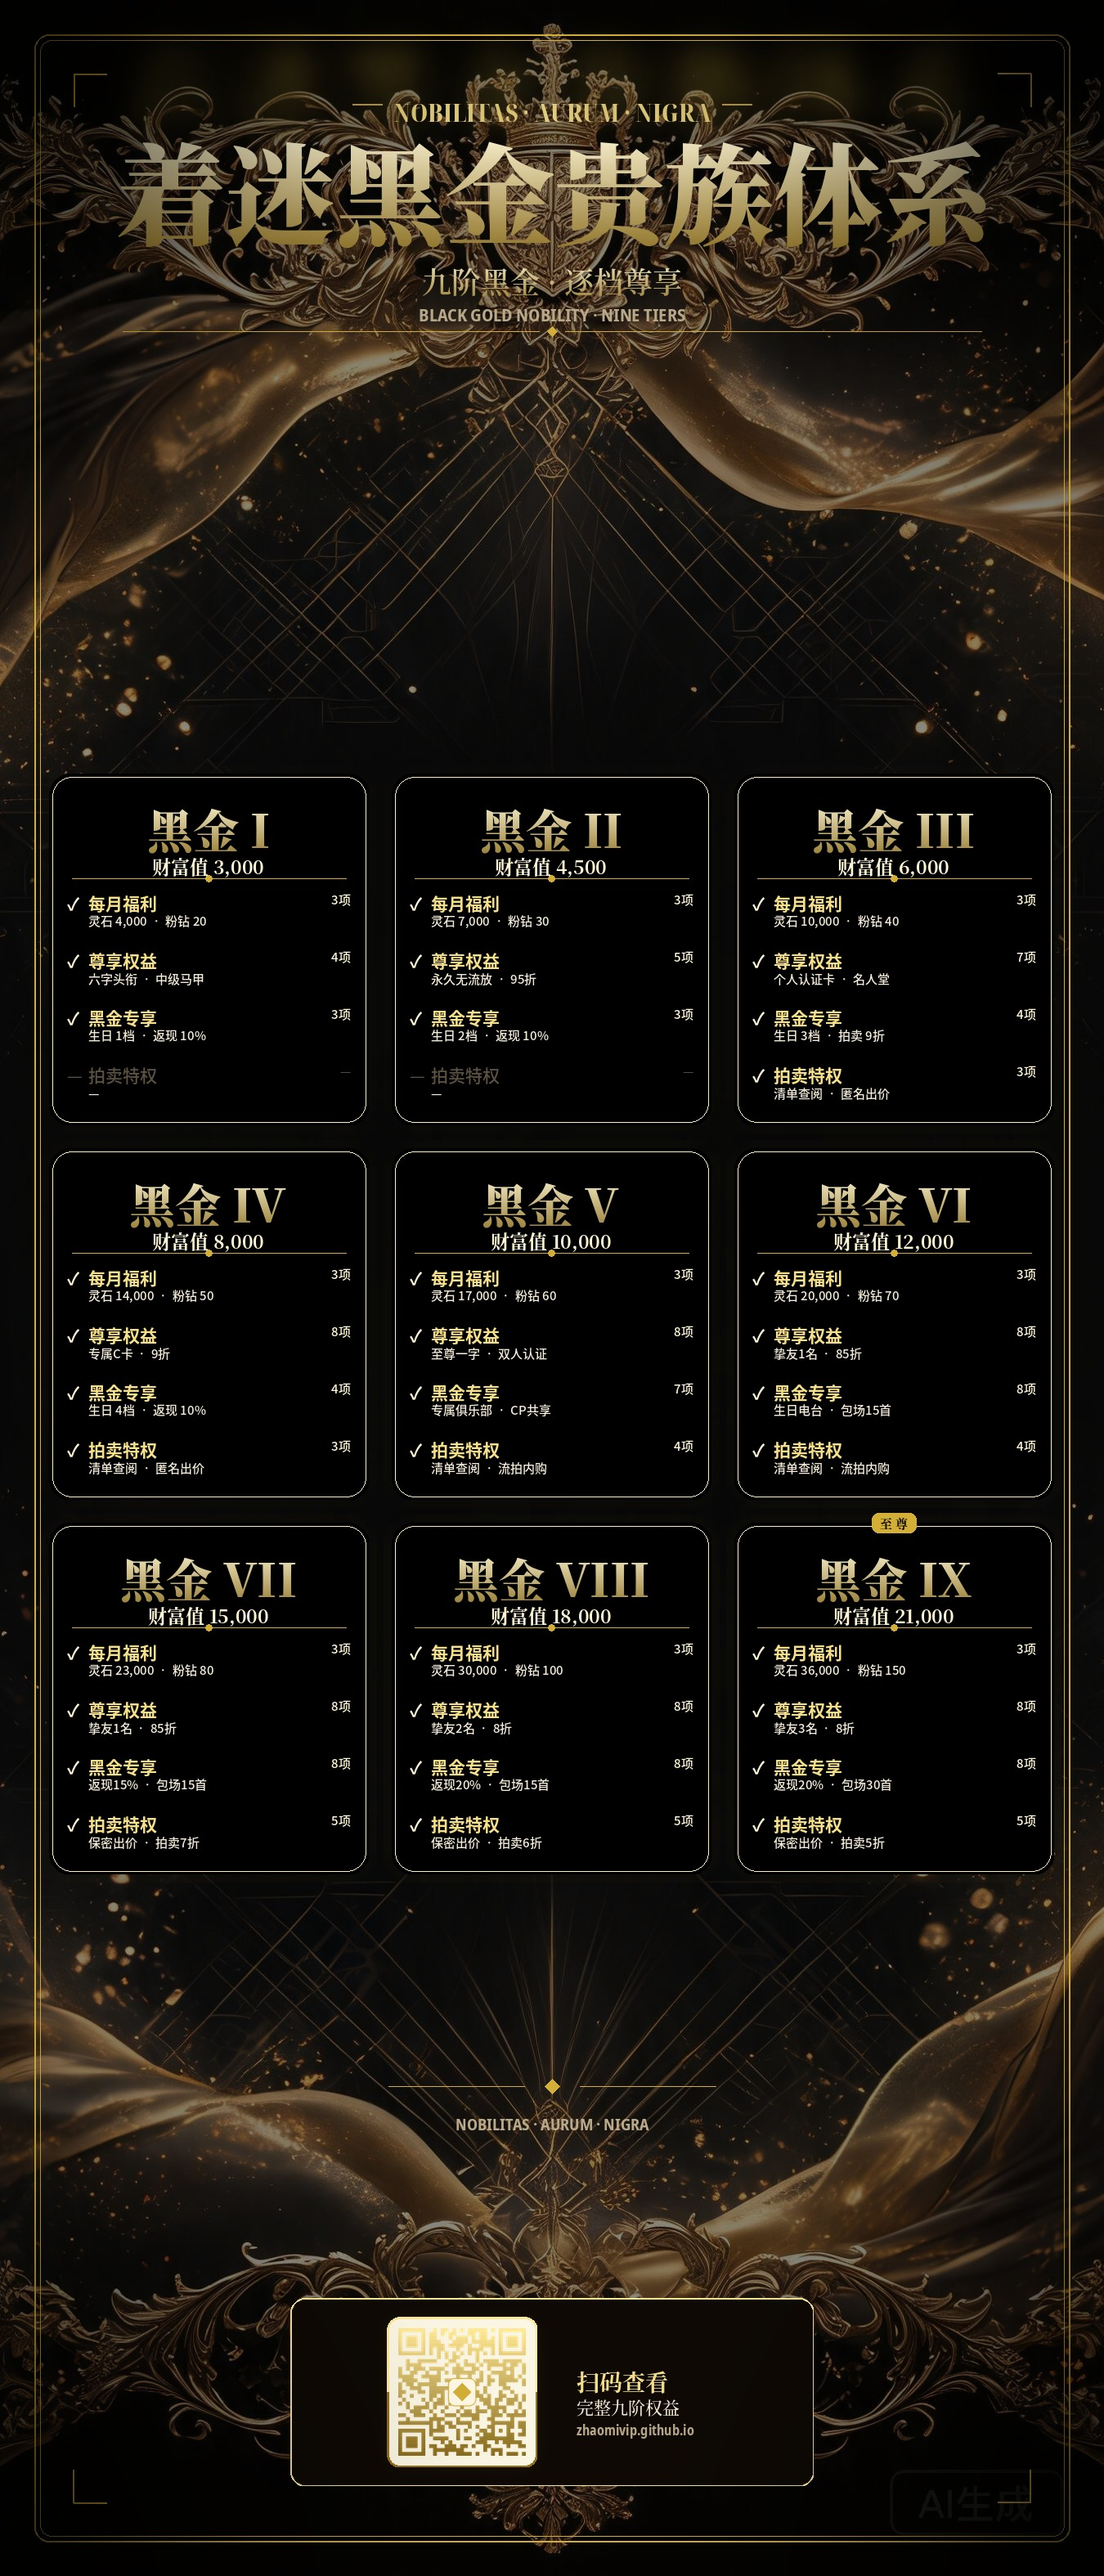
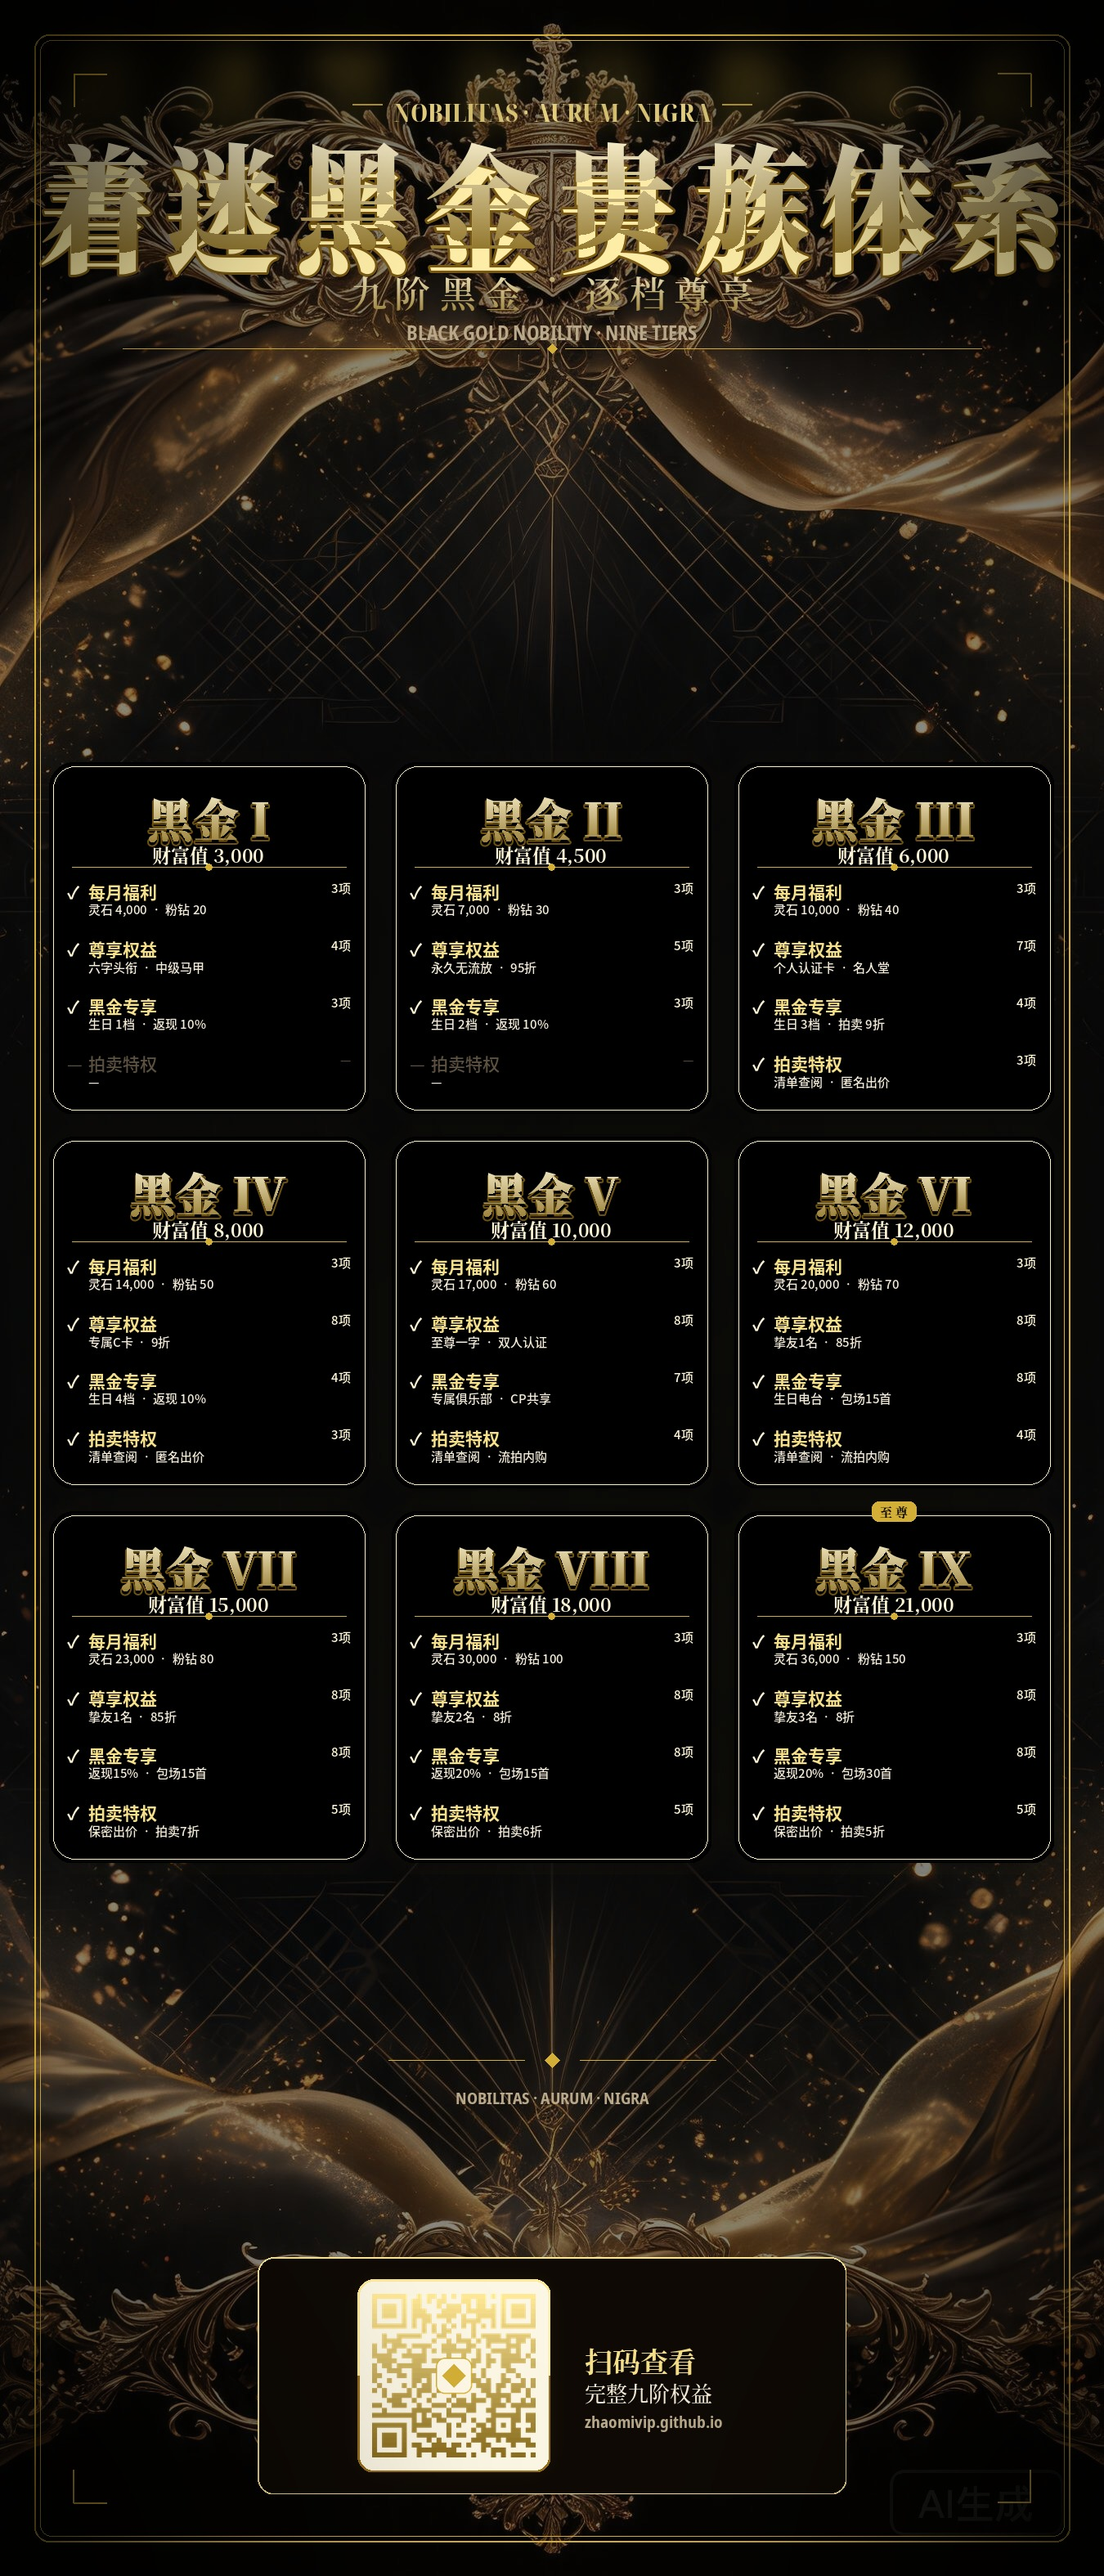
海报:二维码放大(200px/面板290);卡片水晶凸起(穹顶高光+3D斜面+底部内阴影);字体艺术化(字距+金色描边+投影)

diff --git a/make_poster.py b/make_poster.py
@@ -108,24 +108,51 @@ draw.line([(CX-ew//2-50,ey_y+eh//2),(CX-ew//2-14,ey_y+eh//2)],fill=(212,175,55,2
 draw.line([(CX+ew//2+14,ey_y+eh//2),(CX+ew//2+50,ey_y+eh//2)],fill=(212,175,55,200),width=2)
 
 title='着迷黑金贵族体系'
-tf=CJK(134,'Black')
-ty=ey_y+eh+20
-# 标题金色光晕（先画模糊金色大字作为底衬）
-glow=Image.new('RGBA',(W,400),(0,0,0,0))
+tf=CJK(140,'Black')
+ty=ey_y+eh+22
+# 标题字距（艺术化拉开）
+SPACING=14
+# 计算带字距的总宽
+title_w=sum(tsize(ch,tf)[0] for ch in title)+SPACING*(len(title)-1)
+tx0=CX-title_w//2
+# 标题金色光晕
+glow=Image.new('RGBA',(W,420),(0,0,0,0))
 gd=ImageDraw.Draw(glow)
-tw,th=tsize(title,tf)
-gd.text((CX-tw//2,200-ty),title,font=tf,fill=(212,175,55,120),anchor='la')
-glow=glow.filter(ImageFilter.GaussianBlur(22))
-canvas.alpha_composite(glow,(0,ty-200))
-gold_text(CX,ty,title,tf,'ma')
+gx=tx0
+for ch in title:
+    cw,_=tsize(ch,tf)
+    gd.text((gx,210-ty),ch,font=tf,fill=(212,175,55,130),anchor='la')
+    gx+=cw+SPACING
+glow=glow.filter(ImageFilter.GaussianBlur(24))
+canvas.alpha_composite(glow,(0,ty-210))
+# 逐字绘制：深色投影 + 金色描边 + 金色渐变填充
+gx=tx0
+for ch in title:
+    cw,chh=tsize(ch,tf)
+    ccx=gx+cw//2
+    # 投影
+    draw.text((ccx+3,ty+3),ch,font=tf,fill=(0,0,0,160),anchor='ma')
+    # 金色描边
+    draw.text((ccx,ty),ch,font=tf,fill=(255,238,168,0),anchor='ma',stroke_width=3,stroke_fill=(120,88,20,230))
+    # 金色渐变填充
+    gold_text(ccx,ty,ch,tf,'ma')
+    gx+=cw+SPACING
 
 sub='九阶黑金 · 逐档尊享'
-sf=CJK(36,'SemiBold'); sw,sh=tsize(sub,sf)
-gold_text(CX,ty+tsize(title,tf)[1]+14,sub,sf,'ma')
+sf=CJK(44,'SemiBold')
+sub_sp=10
+sub_w=sum(tsize(ch,sf)[0] for ch in sub)+sub_sp*(len(sub)-1)
+sx0=CX-sub_w//2
+sub_y=ty+tsize(title,tf)[1]+18
+sx=sx0
+for ch in sub:
+    cw,_=tsize(ch,sf)
+    gold_text(sx+cw//2,sub_y,ch,sf,'ma')
+    sx+=cw+sub_sp
 
 lead='BLACK GOLD NOBILITY · NINE TIERS'
-lf=LATIN(22,'sans')
-ly=ty+tsize(title,tf)[1]+14+sh+18
+lf=LATIN(24,'sans')
+ly=sub_y+tsize(sub,sf)[1]+20
 txt(CX,ly,lead,lf,MUTED,'ma')
 
 dy=ly+36
@@ -192,8 +219,8 @@ CARD_W=(W-2*MARGIN_X-(COLS-1)*GAP)//COLS
 CARD_H=430
 GRID_H=ROWS*CARD_H+(ROWS-1)*GAP
 HEADER_BOTTOM=dy+24
-QR_PANEL_H=230
-QR_BOTTOM_MARGIN=110
+QR_PANEL_H=290
+QR_BOTTOM_MARGIN=100
 QR_TOP=H-QR_PANEL_H-QR_BOTTOM_MARGIN
 GRID_TOP=HEADER_BOTTOM+((QR_TOP-HEADER_BOTTOM)-GRID_H)//2
 GRID_BOTTOM=GRID_TOP+GRID_H
@@ -205,41 +232,43 @@ def card_pos(i):
     return x,y
 
 def glass_card(x,y,w,h,i):
-    """大气圆滑玻璃卡片：深色渐变 + 顶部高光 + 金色渐变描边 + 内发光 + 外发光"""
-    R=26  # 大圆角
+    """水晶凸起玻璃卡片：通透渐变 + 弧形穹顶高光 + 立体斜面描边 + 内外发光"""
+    R=30  # 更大圆角，水晶圆润
     # 外层金色光晕（高等级更强，柔化）
-    glow_alpha=int(28+i*12)
+    glow_alpha=int(32+i*13)
     if glow_alpha>0:
-        glow=Image.new('RGBA',(w+20,h+20),(0,0,0,0))
+        glow=Image.new('RGBA',(w+28,h+28),(0,0,0,0))
         gd=ImageDraw.Draw(glow)
-        gd.rounded_rectangle((6,6,w+14,h+14),radius=R+4,outline=(212,175,55,glow_alpha),width=4)
-        glow=glow.filter(ImageFilter.GaussianBlur(8))
-        canvas.alpha_composite(glow,(x-10,y-10))
-    # 基础层：深色纵向渐变（上深下略亮，沉稳大气）
+        gd.rounded_rectangle((8,8,w+20,h+20),radius=R+6,outline=(212,175,55,glow_alpha),width=5)
+        glow=glow.filter(ImageFilter.GaussianBlur(12))
+        canvas.alpha_composite(glow,(x-14,y-14))
+    # 基础层：通透深色纵向渐变（水晶玻璃感，降低不透明度）
     base=Image.new('RGBA',(w,h),(0,0,0,0))
     bd=ImageDraw.Draw(base)
     for yy in range(h):
         tt=yy/max(h-1,1)
-        a=int(215-tt*30)
-        r=int(16+tt*14); g=int(11+tt*9); b=int(5+tt*7)
+        a=int(190-tt*25)
+        r=int(18+tt*16); g=int(12+tt*11); b=int(6+tt*9)
         bd.line([(0,yy),(w,yy)],fill=(r,g,b,a))
-    # 顶部玻璃高光（柔和大弧度反光）
+    # 弧形穹顶高光（水晶凸起的顶部反光，宽而柔和）
     hl=Image.new('RGBA',(w,h),(0,0,0,0))
     hd=ImageDraw.Draw(hl)
-    for yy in range(int(h*0.42)):
-        tt=yy/(h*0.42)
-        a=int(55*(1-tt)**1.5)
-        hd.line([(0,yy),(w,yy)],fill=(255,244,200,a))
-    # 斜向细光带（玻璃质感）
-    for k in range(0,w+h,3):
-        hd.line([(k,0),(k+h//4,h//4)],fill=(255,248,210,5),width=1)
+    for yy in range(int(h*0.5)):
+        # 弧形：中间高两边低，模拟穹顶反光
+        edge=yy/(h*0.5)
+        curve=1-(edge-0.5)**2*2.2
+        a=int(70*max(curve,0)*(1-edge)**1.2)
+        hd.line([(0,yy),(w,yy)],fill=(255,246,205,a))
+    # 斜向细光带（玻璃折射）
+    for k in range(-h,w+h,4):
+        hd.line([(k,0),(k+h//3,h//3)],fill=(255,250,215,6),width=1)
     base=Image.alpha_composite(base,hl)
-    # 底部微弱内反光
+    # 底部微弱金色内反光
     refl=Image.new('RGBA',(w,h),(0,0,0,0))
     rd=ImageDraw.Draw(refl)
-    for yy in range(int(h*0.3)):
-        tt=yy/(h*0.3)
-        a=int(30*tt)
+    for yy in range(int(h*0.32)):
+        tt=yy/(h*0.32)
+        a=int(38*tt)
         rd.line([(0,h-yy),(w,h-yy)],fill=(212,175,55,a))
     base=Image.alpha_composite(base,refl)
     # 圆角遮罩
@@ -247,22 +276,36 @@ def glass_card(x,y,w,h,i):
     ImageDraw.Draw(mask).rounded_rectangle((0,0,w,h),radius=R,fill=255)
     base.putalpha(mask)
     canvas.alpha_composite(base,(x,y))
-    # 金色渐变描边（上亮下暗，立体感）
+    # 立体斜面描边（水晶凸起：上亮下暗，3D 边缘）
     border=Image.new('RGBA',(w,h),(0,0,0,0))
     bdr=ImageDraw.Draw(border)
     for yy in range(h):
         tt=yy/max(h-1,1)
-        a=int(220-tt*90)
-        bdr.line([(0,yy),(w,yy)],fill=(255,232,150,a) if tt<0.5 else (120,88,20,a))
-    # 用圆角环描边
+        a=int(235-tt*100)
+        bdr.line([(0,yy),(w,yy)],fill=(255,238,168,a) if tt<0.5 else (110,82,18,a))
     ring=Image.new('L',(w,h),0)
-    ImageDraw.Draw(ring).rounded_rectangle((0,0,w,h),radius=R,fill=0,outline=255,width=2)
+    ImageDraw.Draw(ring).rounded_rectangle((0,0,w,h),radius=R,fill=0,outline=255,width=3)
     border.putalpha(ring)
     canvas.alpha_composite(border,(x,y))
+    # 顶部细亮线（凸起高光棱）
+    topedge=Image.new('RGBA',(w,h),(0,0,0,0))
+    te=ImageDraw.Draw(topedge)
+    te.rounded_rectangle((2,2,w-2,h-2),radius=R-1,outline=(255,248,214,90),width=1)
+    topedge.putalpha(mask)
+    canvas.alpha_composite(topedge,(x,y))
+    # 底部内阴影（水晶下沉感）
+    botsh=Image.new('RGBA',(w,h),(0,0,0,0))
+    bs=ImageDraw.Draw(botsh)
+    for yy in range(int(h*0.25)):
+        tt=yy/(h*0.25)
+        a=int(45*(1-tt))
+        bs.line([(0,h-1-yy),(w,h-1-yy)],fill=(0,0,0,a))
+    botsh.putalpha(mask)
+    canvas.alpha_composite(botsh,(x,y))
     # 内发光（顶部一圈暖光）
     inner=Image.new('RGBA',(w,h),(0,0,0,0))
     idr=ImageDraw.Draw(inner)
-    idr.rounded_rectangle((4,4,w-4,h-4),radius=R-2,outline=(255,240,180,30),width=1)
+    idr.rounded_rectangle((5,5,w-5,h-5),radius=R-3,outline=(255,242,185,35),width=1)
     inner.putalpha(mask)
     canvas.alpha_composite(inner,(x,y))
 
@@ -277,9 +320,12 @@ for i,t in enumerate(TIERS):
         rrect((cx-bw//2-10,y-12,cx+bw//2+10,y+12),8,fill=(212,175,55,255))
         txt(cx,y,badge,bf,(10,7,3),'mm')
 
-    # 头部：黑金 Ⅰ（大字体饱满）
-    gold_text(cx,y+28,f'黑金 {t["id"]}',CJK(56,'Black'),'ma')
-    _,gnh=tsize(f'黑金 {t["id"]}',CJK(56,'Black'))
+    # 头部：黑金 Ⅰ（大字体饱满 + 金色描边）
+    tier_title=f'黑金 {t["id"]}'
+    ttf=CJK(56,'Black')
+    draw.text((cx,y+30),tier_title,font=ttf,fill=(0,0,0,0),anchor='ma',stroke_width=2,stroke_fill=(110,82,18,220))
+    gold_text(cx,y+28,tier_title,ttf,'ma')
+    _,gnh=tsize(tier_title,ttf)
     # 财富值（金色大字）
     txt(cx,y+28+gnh+8,f'财富值 {t["wealth"]:,}',CJK(23,'Bold'),GOLD_HI,'ma',shadow=True)
     # 分隔线
@@ -321,7 +367,7 @@ motto='NOBILITAS · AURUM · NIGRA'
 txt(CX,mid_y+32,motto,LATIN(20,'sans'),MUTED,'ma')
 
 # 二维码面板（深色玻璃 + 金色渐变描边）
-panel_x1,panel_x2=W//2-320,W//2+320
+panel_x1,panel_x2=W//2-360,W//2+360
 panel=Image.new('RGBA',(panel_x2-panel_x1,qr_panel_h),(0,0,0,0))
 pd=ImageDraw.Draw(panel)
 for yy in range(qr_panel_h):
@@ -329,7 +375,7 @@ for yy in range(qr_panel_h):
     a=int(185-tt*25)
     pd.line([(0,yy),(panel_x2-panel_x1,yy)],fill=(14,9,4,a))
 pmask=Image.new('L',(panel_x2-panel_x1,qr_panel_h),0)
-ImageDraw.Draw(pmask).rounded_rectangle((0,0,panel_x2-panel_x1,qr_panel_h),radius=18,fill=255)
+ImageDraw.Draw(pmask).rounded_rectangle((0,0,panel_x2-panel_x1,qr_panel_h),radius=20,fill=255)
 panel.putalpha(pmask)
 canvas.alpha_composite(panel,(panel_x1,qr_top))
 # 面板金色描边
@@ -339,30 +385,29 @@ for yy in range(qr_panel_h):
     tt=yy/max(qr_panel_h-1,1)
     pbd.line([(0,yy),(panel_x2-panel_x1,yy)],fill=(255,232,150,int(200-tt*80)))
 pring=Image.new('L',(panel_x2-panel_x1,qr_panel_h),0)
-ImageDraw.Draw(pring).rounded_rectangle((0,0,panel_x2-panel_x1,qr_panel_h),radius=18,outline=255,width=2)
+ImageDraw.Draw(pring).rounded_rectangle((0,0,panel_x2-panel_x1,qr_panel_h),radius=20,outline=255,width=2)
 pbdr.putalpha(pring)
 canvas.alpha_composite(pbdr,(panel_x1,qr_top))
 
-# 美化二维码：白色圆角底 + 金色渐变描边 + 外发光
-qr_size=156
+# 美化二维码：白色圆角底 + 金色渐变描边 + 外发光（放大）
+qr_size=200
 qr_img=Image.open(QR).convert('RGBA').resize((qr_size,qr_size),Image.LANCZOS)
-pad=14
+pad=18
 qb_w=qr_size+2*pad
-qcx=W//2-110; qcy=qr_top+(qr_panel_h-qb_w)//2
+qcx=W//2-120; qcy=qr_top+(qr_panel_h-qb_w)//2
 # 二维码外发光
-qrglow=Image.new('RGBA',(qb_w+30,qb_w+30),(0,0,0,0))
-ImageDraw.Draw(qrglow).rounded_rectangle((15,15,qb_w+15,qb_w+15),radius=20,outline=(212,175,55,160),width=6)
-qrglow=qrglow.filter(ImageFilter.GaussianBlur(10))
-canvas.alpha_composite(qrglow,(int(qcx-qb_w//2-15),int(qcy-15)))
+qrglow=Image.new('RGBA',(qb_w+36,qb_w+36),(0,0,0,0))
+ImageDraw.Draw(qrglow).rounded_rectangle((18,18,qb_w+18,qb_w+18),radius=24,outline=(212,175,55,170),width=7)
+qrglow=qrglow.filter(ImageFilter.GaussianBlur(12))
+canvas.alpha_composite(qrglow,(int(qcx-qb_w//2-18),int(qcy-18)))
 # 白色圆角底 + 金色渐变描边
-qbbox=(qcx-qb_w//2,qcy,qcx+qb_w//2,qcy+qb_w)
 qbg=Image.new('RGBA',(qb_w,qb_w),(0,0,0,0))
 qbd=ImageDraw.Draw(qbg)
 for yy in range(qb_w):
     tt=yy/max(qb_w-1,1)
     qbd.line([(0,yy),(qb_w,yy)],fill=(252,246,228,255))
 qmask=Image.new('L',(qb_w,qb_w),0)
-ImageDraw.Draw(qmask).rounded_rectangle((0,0,qb_w,qb_w),radius=16,fill=255)
+ImageDraw.Draw(qmask).rounded_rectangle((0,0,qb_w,qb_w),radius=20,fill=255)
 qbg.putalpha(qmask)
 canvas.alpha_composite(qbg,(qcx-qb_w//2,qcy))
 # 二维码图案
@@ -374,15 +419,15 @@ for yy in range(qb_w):
     tt=yy/max(qb_w-1,1)
     qbdd.line([(0,yy),(qb_w,yy)],fill=(255,232,150,255) if tt<0.5 else (150,110,25,255))
 qbring=Image.new('L',(qb_w,qb_w),0)
-ImageDraw.Draw(qbring).rounded_rectangle((0,0,qb_w,qb_w),radius=16,outline=255,width=3)
+ImageDraw.Draw(qbring).rounded_rectangle((0,0,qb_w,qb_w),radius=20,outline=255,width=3)
 qbrd.putalpha(qbring)
 canvas.alpha_composite(qbrd,(qcx-qb_w//2,qcy))
 
-# 右侧文字
-tx=W//2+30
-txt(tx,qr_top+qr_panel_h//2-34,'扫码查看',CJK(28,'Bold'),GOLD,'la')
-txt(tx,qr_top+qr_panel_h//2+2,'完整九阶权益',CJK(21,'Medium'),CREAM,'la')
-txt(tx,qr_top+qr_panel_h//2+34,'zhaomivip.github.io',LATIN(17,'sans'),MUTED,'la')
+# 右侧文字（放大）
+tx=W//2+40
+txt(tx,qr_top+qr_panel_h//2-44,'扫码查看',CJK(34,'Bold'),GOLD,'la')
+txt(tx,qr_top+qr_panel_h//2+2,'完整九阶权益',CJK(26,'Medium'),CREAM,'la')
+txt(tx,qr_top+qr_panel_h//2+42,'zhaomivip.github.io',LATIN(20,'sans'),MUTED,'la')
 
 # 整体金边（外框+内细线，双层优雅）
 PAD=42
